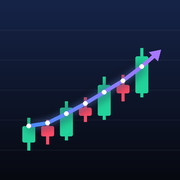
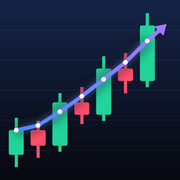
アイコンの余白を詰めてチャートを大きく表示
- チャートをアイコンいっぱいに配置（角丸でも切れない範囲）
- Android の切り抜き用に余白付きの maskable アイコンを別途追加

Changed region(s): [[0.0278, 0.0556, 0.9444, 0.9444]]

diff --git a/make_icon.py b/make_icon.py
@@ -11,7 +11,8 @@ def lerp(a, b, t):
     return tuple(int(a[i] + (b[i] - a[i]) * t) for i in range(3))
 
 
-def draw():
+def draw(box=(30, 900, 985, 40)):
+    """box = (左, 右, 下, 上) … チャートを描く範囲（1024px 基準）"""
     img = Image.new("RGB", (S, S))
     px = img.load()
     top, bottom = (22, 36, 72), (7, 9, 16)  # 濃紺 → ほぼ黒
@@ -33,7 +34,7 @@ def draw():
         (0.47, 0.43, 0.52, 0.40), (0.43, 0.58, 0.62, 0.41), (0.58, 0.54, 0.63, 0.50),
         (0.54, 0.72, 0.76, 0.52),
     ]
-    left, right, lo_y, hi_y = 110, 860, 880, 250
+    left, right, lo_y, hi_y = box
     step = (right - left) / len(candles)
     to_y = lambda v: lo_y - (lo_y - hi_y) * (v - 0.24) / 0.54
     pts = []
@@ -73,6 +74,8 @@ def main():
     img = draw()
     for name, size in [("apple-touch-icon.png", 180), ("icon-192.png", 192), ("icon-512.png", 512), ("favicon-64.png", 64)]:
         img.resize((size, size), Image.LANCZOS).save(OUT / name, optimize=True)
+    # Android の丸型などに切り抜かれる用（中央80%に収める）
+    draw((150, 830, 860, 230)).resize((512, 512), Image.LANCZOS).save(OUT / "icon-maskable-512.png", optimize=True)
     print("saved", OUT)
 
 
